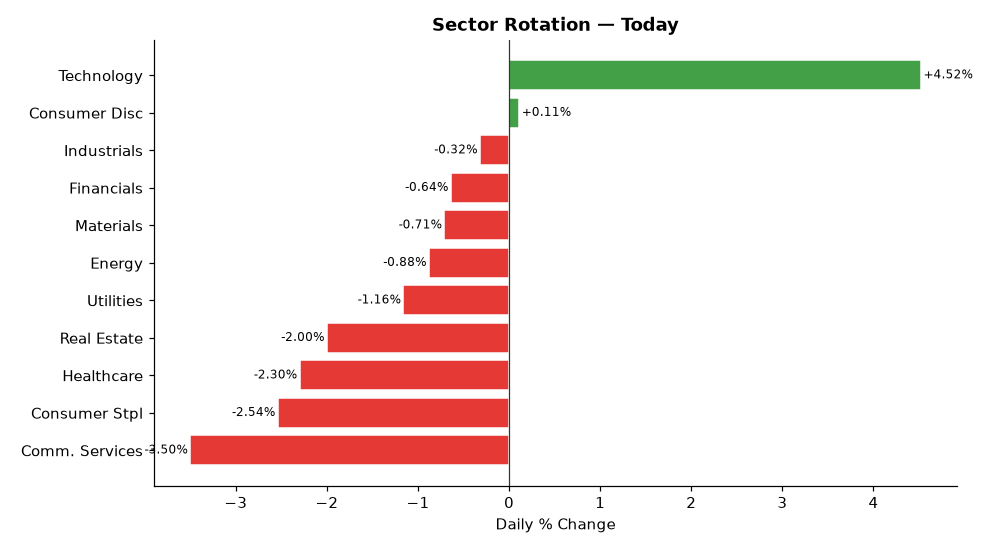
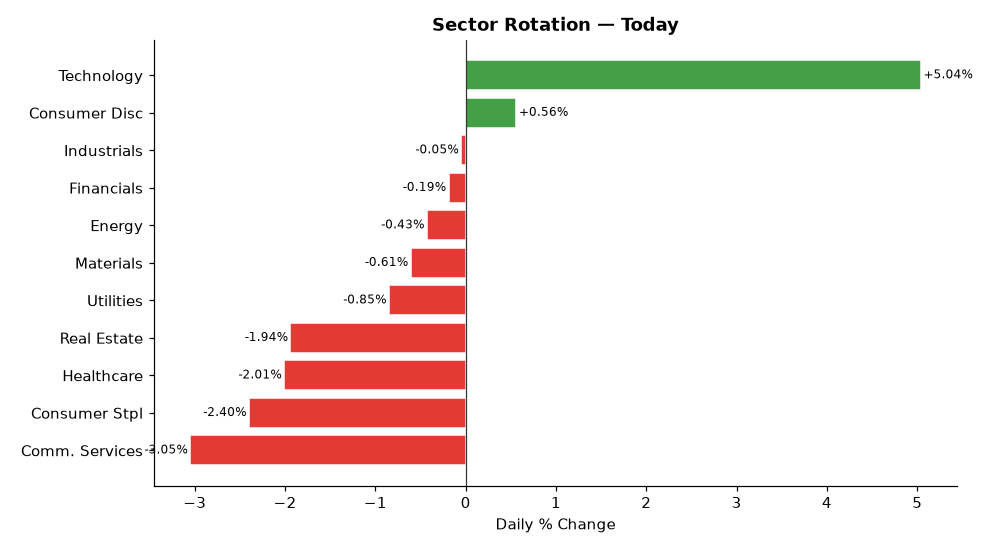
deploy: b7fadf5b06deb90e7ebb92f278722414bdd9750d

diff --git a/index.html b/index.html
@@ -4,7 +4,7 @@
   <meta charset="UTF-8">
   <meta name="viewport" content="width=device-width,initial-scale=1">
   <meta http-equiv="Cache-Control" content="no-cache,no-store,must-revalidate">
-  <title>Stock Breakout Screener — 2026-07-30 15:29</title>
+  <title>Stock Breakout Screener — 2026-07-30 16:06</title>
   <style>
     *{box-sizing:border-box;margin:0;padding:0}
     body{font-family:'Segoe UI',Arial,sans-serif;background:#f0f2f5;
@@ -34,7 +34,7 @@
 
 <div class="hdr">
   <h1>📈 Stock Breakout Screener</h1>
-  <p>Updated: 2026-07-30 15:29 UTC &nbsp;·&nbsp; Phase: Regular Market Hours &nbsp;·&nbsp;
+  <p>Updated: 2026-07-30 16:06 UTC &nbsp;·&nbsp; Phase: Regular Market Hours &nbsp;·&nbsp;
      129 stocks screened &nbsp;·&nbsp; Top 5 by conviction score</p>
 </div>
 
@@ -60,7 +60,7 @@
           <div style="display:flex;align-items:center;gap:10px;
                       flex-wrap:wrap;margin-bottom:10px">
             <span style="font-size:22px">🟢</span>
-            <span style="font-size:19px;font-weight:700">1. AAPL</span>
+            <span style="font-size:19px;font-weight:700">1. MSFT</span>
             <span style="font-size:12px;color:#666">Technology</span>
             <span style="margin-left:auto;background:#1a237e;color:#fff;
                          padding:3px 12px;border-radius:12px;
@@ -69,7 +69,7 @@
             </span>
           </div>
           <ul style="margin:0;padding-left:18px;font-size:13px;
-                     color:#333;line-height:1.8"><li style="margin:5px 0"><span style="background:#ffebee;color:#b71c1c;padding:2px 7px;border-radius:4px;font-size:11px;">❌</span> Volume: <b>0.4× average</b> — Above-average activity</li><li style="margin:5px 0"><span style="background:#ffebee;color:#b71c1c;padding:2px 7px;border-radius:4px;font-size:11px;">❌</span> Candle: close <b>$331.22</b> vs open <b>$333.13</b> (-0.6%) — regular market close</li><li style="margin:5px 0"><span style="background:#e8f5e9;color:#2e7d32;padding:2px 7px;border-radius:4px;font-size:11px;">✅</span> 200-Day MA: price <b>$331.22</b> vs MA <b>$283.82</b> — <b>✅ Above</b> long-term trend</li><li style="margin:5px 0"><span style="background:#e8f5e9;color:#2e7d32;padding:2px 7px;border-radius:4px;font-size:11px;">✅</span> Inst. ownership: <b>65.7%</b> · MFI: <b>65.8</b> · Market cap: <b>$4865.0B</b></li><li style="margin:5px 0"><span style="background:#e8f5e9;color:#2e7d32;padding:2px 7px;border-radius:4px;font-size:11px;">✅</span> Last similar breakout: <b>Jun 26, 2026</b> → <b>+11.8%</b> over 10 trading days</li></ul>
+                     color:#333;line-height:1.8"><li style="margin:5px 0"><span style="background:#fffde7;color:#f57f17;padding:2px 7px;border-radius:4px;font-size:11px;">⚠</span> Volume: <b>1.8× average</b> — Above-average activity</li><li style="margin:5px 0"><span style="background:#e8f5e9;color:#2e7d32;padding:2px 7px;border-radius:4px;font-size:11px;">✅</span> Candle: close <b>$452.21</b> vs open <b>$438.50</b> (+3.1%) — regular market close</li><li style="margin:5px 0"><span style="background:#e8f5e9;color:#2e7d32;padding:2px 7px;border-radius:4px;font-size:11px;">✅</span> 200-Day MA: price <b>$452.21</b> vs MA <b>$399.27</b> — <b>✅ Above</b> long-term trend</li><li style="margin:5px 0"><span style="background:#e8f5e9;color:#2e7d32;padding:2px 7px;border-radius:4px;font-size:11px;">✅</span> Inst. ownership: <b>75.7%</b> · MFI: <b>66.2</b> · Market cap: <b>$3358.6B</b></li><li style="margin:5px 0"><span style="background:#ffebee;color:#b71c1c;padding:2px 7px;border-radius:4px;font-size:11px;">❌</span> Last similar breakout: <b>May 29, 2026</b> → <b>-13.2%</b> over 10 trading days</li></ul>
         </div>
         <div style="background:#fff;border:1px solid #ddd;border-radius:10px;
                     padding:16px 20px;margin-bottom:12px;
@@ -77,7 +77,7 @@
           <div style="display:flex;align-items:center;gap:10px;
                       flex-wrap:wrap;margin-bottom:10px">
             <span style="font-size:22px">🟢</span>
-            <span style="font-size:19px;font-weight:700">2. MSFT</span>
+            <span style="font-size:19px;font-weight:700">2. AAPL</span>
             <span style="font-size:12px;color:#666">Technology</span>
             <span style="margin-left:auto;background:#1a237e;color:#fff;
                          padding:3px 12px;border-radius:12px;
@@ -86,7 +86,7 @@
             </span>
           </div>
           <ul style="margin:0;padding-left:18px;font-size:13px;
-                     color:#333;line-height:1.8"><li style="margin:5px 0"><span style="background:#fffde7;color:#f57f17;padding:2px 7px;border-radius:4px;font-size:11px;">⚠</span> Volume: <b>1.6× average</b> — Above-average activity</li><li style="margin:5px 0"><span style="background:#fffde7;color:#f57f17;padding:2px 7px;border-radius:4px;font-size:11px;">⚠</span> Candle: close <b>$444.53</b> vs open <b>$438.50</b> (+1.4%) — regular market close</li><li style="margin:5px 0"><span style="background:#e8f5e9;color:#2e7d32;padding:2px 7px;border-radius:4px;font-size:11px;">✅</span> 200-Day MA: price <b>$444.53</b> vs MA <b>$399.21</b> — <b>✅ Above</b> long-term trend</li><li style="margin:5px 0"><span style="background:#e8f5e9;color:#2e7d32;padding:2px 7px;border-radius:4px;font-size:11px;">✅</span> Inst. ownership: <b>75.7%</b> · MFI: <b>65.7</b> · Market cap: <b>$3302.8B</b></li><li style="margin:5px 0"><span style="background:#ffebee;color:#b71c1c;padding:2px 7px;border-radius:4px;font-size:11px;">❌</span> Last similar breakout: <b>May 29, 2026</b> → <b>-13.2%</b> over 10 trading days</li></ul>
+                     color:#333;line-height:1.8"><li style="margin:5px 0"><span style="background:#ffebee;color:#b71c1c;padding:2px 7px;border-radius:4px;font-size:11px;">❌</span> Volume: <b>0.5× average</b> — Above-average activity</li><li style="margin:5px 0"><span style="background:#ffebee;color:#b71c1c;padding:2px 7px;border-radius:4px;font-size:11px;">❌</span> Candle: close <b>$331.15</b> vs open <b>$333.13</b> (-0.6%) — regular market close</li><li style="margin:5px 0"><span style="background:#e8f5e9;color:#2e7d32;padding:2px 7px;border-radius:4px;font-size:11px;">✅</span> 200-Day MA: price <b>$331.15</b> vs MA <b>$283.82</b> — <b>✅ Above</b> long-term trend</li><li style="margin:5px 0"><span style="background:#e8f5e9;color:#2e7d32;padding:2px 7px;border-radius:4px;font-size:11px;">✅</span> Inst. ownership: <b>65.7%</b> · MFI: <b>65.4</b> · Market cap: <b>$4865.6B</b></li><li style="margin:5px 0"><span style="background:#e8f5e9;color:#2e7d32;padding:2px 7px;border-radius:4px;font-size:11px;">✅</span> Last similar breakout: <b>Jun 26, 2026</b> → <b>+11.8%</b> over 10 trading days</li></ul>
         </div>
         <div style="background:#fff;border:1px solid #ddd;border-radius:10px;
                     padding:16px 20px;margin-bottom:12px;
@@ -103,7 +103,7 @@
             </span>
           </div>
           <ul style="margin:0;padding-left:18px;font-size:13px;
-                     color:#333;line-height:1.8"><li style="margin:5px 0"><span style="background:#ffebee;color:#b71c1c;padding:2px 7px;border-radius:4px;font-size:11px;">❌</span> Volume: <b>0.5× average</b> — Above-average activity</li><li style="margin:5px 0"><span style="background:#e8f5e9;color:#2e7d32;padding:2px 7px;border-radius:4px;font-size:11px;">✅</span> Candle: close <b>$483.19</b> vs open <b>$459.16</b> (+5.2%) — regular market close</li><li style="margin:5px 0"><span style="background:#e8f5e9;color:#2e7d32;padding:2px 7px;border-radius:4px;font-size:11px;">✅</span> 200-Day MA: price <b>$483.19</b> vs MA <b>$359.47</b> — <b>✅ Above</b> long-term trend</li><li style="margin:5px 0"><span style="background:#e8f5e9;color:#2e7d32;padding:2px 7px;border-radius:4px;font-size:11px;">✅</span> Inst. ownership: <b>72.0%</b> · MFI: <b>31.7</b> · Market cap: <b>N/A</b></li><li style="margin:5px 0"><span style="background:#e8f5e9;color:#2e7d32;padding:2px 7px;border-radius:4px;font-size:11px;">✅</span> Last similar breakout: <b>Apr 24, 2026</b> → <b>+30.9%</b> over 10 trading days</li></ul>
+                     color:#333;line-height:1.8"><li style="margin:5px 0"><span style="background:#ffebee;color:#b71c1c;padding:2px 7px;border-radius:4px;font-size:11px;">❌</span> Volume: <b>0.5× average</b> — Above-average activity</li><li style="margin:5px 0"><span style="background:#e8f5e9;color:#2e7d32;padding:2px 7px;border-radius:4px;font-size:11px;">✅</span> Candle: close <b>$487.06</b> vs open <b>$459.16</b> (+6.1%) — regular market close</li><li style="margin:5px 0"><span style="background:#e8f5e9;color:#2e7d32;padding:2px 7px;border-radius:4px;font-size:11px;">✅</span> 200-Day MA: price <b>$487.06</b> vs MA <b>$359.50</b> — <b>✅ Above</b> long-term trend</li><li style="margin:5px 0"><span style="background:#e8f5e9;color:#2e7d32;padding:2px 7px;border-radius:4px;font-size:11px;">✅</span> Inst. ownership: <b>72.0%</b> · MFI: <b>32.1</b> · Market cap: <b>N/A</b></li><li style="margin:5px 0"><span style="background:#e8f5e9;color:#2e7d32;padding:2px 7px;border-radius:4px;font-size:11px;">✅</span> Last similar breakout: <b>Apr 24, 2026</b> → <b>+30.9%</b> over 10 trading days</li></ul>
         </div>
         <div style="background:#fff;border:1px solid #ddd;border-radius:10px;
                     padding:16px 20px;margin-bottom:12px;
@@ -120,7 +120,7 @@
             </span>
           </div>
           <ul style="margin:0;padding-left:18px;font-size:13px;
-                     color:#333;line-height:1.8"><li style="margin:5px 0"><span style="background:#ffebee;color:#b71c1c;padding:2px 7px;border-radius:4px;font-size:11px;">❌</span> Volume: <b>0.6× average</b> — Above-average activity</li><li style="margin:5px 0"><span style="background:#e8f5e9;color:#2e7d32;padding:2px 7px;border-radius:4px;font-size:11px;">✅</span> Candle: close <b>$92.66</b> vs open <b>$86.41</b> (+7.2%) — regular market close</li><li style="margin:5px 0"><span style="background:#e8f5e9;color:#2e7d32;padding:2px 7px;border-radius:4px;font-size:11px;">✅</span> 200-Day MA: price <b>$92.66</b> vs MA <b>$82.92</b> — <b>✅ Above</b> long-term trend</li><li style="margin:5px 0"><span style="background:#e8f5e9;color:#2e7d32;padding:2px 7px;border-radius:4px;font-size:11px;">✅</span> Inst. ownership: <b>63.8%</b> · MFI: <b>22.5</b> · Market cap: <b>$467.5B</b></li><li style="margin:5px 0"><span style="background:#e8f5e9;color:#2e7d32;padding:2px 7px;border-radius:4px;font-size:11px;">✅</span> Last similar breakout: <b>Apr 29, 2026</b> → <b>+27.0%</b> over 10 trading days</li></ul>
+                     color:#333;line-height:1.8"><li style="margin:5px 0"><span style="background:#ffebee;color:#b71c1c;padding:2px 7px;border-radius:4px;font-size:11px;">❌</span> Volume: <b>0.7× average</b> — Above-average activity</li><li style="margin:5px 0"><span style="background:#e8f5e9;color:#2e7d32;padding:2px 7px;border-radius:4px;font-size:11px;">✅</span> Candle: close <b>$92.72</b> vs open <b>$86.41</b> (+7.3%) — regular market close</li><li style="margin:5px 0"><span style="background:#e8f5e9;color:#2e7d32;padding:2px 7px;border-radius:4px;font-size:11px;">✅</span> 200-Day MA: price <b>$92.72</b> vs MA <b>$82.92</b> — <b>✅ Above</b> long-term trend</li><li style="margin:5px 0"><span style="background:#e8f5e9;color:#2e7d32;padding:2px 7px;border-radius:4px;font-size:11px;">✅</span> Inst. ownership: <b>63.8%</b> · MFI: <b>22.9</b> · Market cap: <b>$467.5B</b></li><li style="margin:5px 0"><span style="background:#e8f5e9;color:#2e7d32;padding:2px 7px;border-radius:4px;font-size:11px;">✅</span> Last similar breakout: <b>Apr 29, 2026</b> → <b>+27.0%</b> over 10 trading days</li></ul>
         </div>
         <div style="background:#fff;border:1px solid #ddd;border-radius:10px;
                     padding:16px 20px;margin-bottom:12px;
@@ -137,7 +137,7 @@
             </span>
           </div>
           <ul style="margin:0;padding-left:18px;font-size:13px;
-                     color:#333;line-height:1.8"><li style="margin:5px 0"><span style="background:#ffebee;color:#b71c1c;padding:2px 7px;border-radius:4px;font-size:11px;">❌</span> Volume: <b>0.5× average</b> — Above-average activity</li><li style="margin:5px 0"><span style="background:#ffebee;color:#b71c1c;padding:2px 7px;border-radius:4px;font-size:11px;">❌</span> Candle: close <b>$246.00</b> vs open <b>$251.55</b> (-2.2%) — regular market close</li><li style="margin:5px 0"><span style="background:#e8f5e9;color:#2e7d32;padding:2px 7px;border-radius:4px;font-size:11px;">✅</span> 200-Day MA: price <b>$246.00</b> vs MA <b>$243.62</b> — <b>✅ Above</b> long-term trend</li><li style="margin:5px 0"><span style="background:#e8f5e9;color:#2e7d32;padding:2px 7px;border-radius:4px;font-size:11px;">✅</span> Inst. ownership: <b>87.7%</b> · MFI: <b>65.7</b> · Market cap: <b>$97.8B</b></li></ul>
+                     color:#333;line-height:1.8"><li style="margin:5px 0"><span style="background:#ffebee;color:#b71c1c;padding:2px 7px;border-radius:4px;font-size:11px;">❌</span> Volume: <b>0.6× average</b> — Above-average activity</li><li style="margin:5px 0"><span style="background:#ffebee;color:#b71c1c;padding:2px 7px;border-radius:4px;font-size:11px;">❌</span> Candle: close <b>$245.93</b> vs open <b>$251.55</b> (-2.2%) — regular market close</li><li style="margin:5px 0"><span style="background:#e8f5e9;color:#2e7d32;padding:2px 7px;border-radius:4px;font-size:11px;">✅</span> 200-Day MA: price <b>$245.93</b> vs MA <b>$243.62</b> — <b>✅ Above</b> long-term trend</li><li style="margin:5px 0"><span style="background:#e8f5e9;color:#2e7d32;padding:2px 7px;border-radius:4px;font-size:11px;">✅</span> Inst. ownership: <b>87.7%</b> · MFI: <b>65.4</b> · Market cap: <b>$97.7B</b></li></ul>
         </div>
 
 
@@ -168,54 +168,54 @@
   
         <tr>
           <td style="font-weight:700;text-align:left;padding-left:10px">
-            🟢 AAPL</td>
-          <td style="background:#ffcdd2">0.4×</td>
-          <td style="background:#ffcdd2">-0.6%</td>
-          <td style="background:#c8e6c9">
-            ▲ Above</td>
-          <td style="background:#c8e6c9">
-            65.7%</td>
-          <td style="background:#c8e6c9">
-            65.8</td>
-          <td style="background:#c8e6c9">Technology</td>
-          <td style="background:#c8e6c9">
-            213.8%</td>
-          <td style="background:#c8e6c9">
-            +11.8%</td>
-          <td style="font-weight:800;font-size:15px">13/17</td>
-        </tr>
-        <tr>
-          <td style="font-weight:700;text-align:left;padding-left:10px">
             🟢 MSFT</td>
-          <td style="background:#fff9c4">1.6×</td>
-          <td style="background:#fff9c4">+1.4%</td>
+          <td style="background:#fff9c4">1.8×</td>
+          <td style="background:#c8e6c9">+3.1%</td>
           <td style="background:#c8e6c9">
             ▲ Above</td>
           <td style="background:#c8e6c9">
             75.7%</td>
           <td style="background:#c8e6c9">
-            65.7</td>
+            66.2</td>
           <td style="background:#c8e6c9">Technology</td>
-          <td style="background:#c8e6c9">
-            110.4%</td>
+          <td style="background:#fff9c4">
+            23.1%</td>
           <td style="background:#ffcdd2">
             -13.2%</td>
           <td style="font-weight:800;font-size:15px">13/17</td>
         </tr>
         <tr>
           <td style="font-weight:700;text-align:left;padding-left:10px">
+            🟢 AAPL</td>
+          <td style="background:#ffcdd2">0.5×</td>
+          <td style="background:#ffcdd2">-0.6%</td>
+          <td style="background:#c8e6c9">
+            ▲ Above</td>
+          <td style="background:#c8e6c9">
+            65.7%</td>
+          <td style="background:#c8e6c9">
+            65.4</td>
+          <td style="background:#c8e6c9">Technology</td>
+          <td style="background:#c8e6c9">
+            202.1%</td>
+          <td style="background:#c8e6c9">
+            +11.8%</td>
+          <td style="font-weight:800;font-size:15px">13/17</td>
+        </tr>
+        <tr>
+          <td style="font-weight:700;text-align:left;padding-left:10px">
             🟢 AMD</td>
           <td style="background:#ffcdd2">0.5×</td>
-          <td style="background:#c8e6c9">+5.2%</td>
+          <td style="background:#c8e6c9">+6.1%</td>
           <td style="background:#c8e6c9">
             ▲ Above</td>
           <td style="background:#c8e6c9">
             72.0%</td>
           <td style="background:#ffcdd2">
-            31.7</td>
+            32.1</td>
           <td style="background:#c8e6c9">Technology</td>
           <td style="background:#c8e6c9">
-            290.9%</td>
+            114.6%</td>
           <td style="background:#c8e6c9">
             +30.9%</td>
           <td style="font-weight:800;font-size:15px">13/17</td>
@@ -223,17 +223,17 @@
         <tr>
           <td style="font-weight:700;text-align:left;padding-left:10px">
             🟢 INTC</td>
-          <td style="background:#ffcdd2">0.6×</td>
-          <td style="background:#c8e6c9">+7.2%</td>
+          <td style="background:#ffcdd2">0.7×</td>
+          <td style="background:#c8e6c9">+7.3%</td>
           <td style="background:#c8e6c9">
             ▲ Above</td>
           <td style="background:#c8e6c9">
             63.8%</td>
           <td style="background:#ffcdd2">
-            22.5</td>
+            22.9</td>
           <td style="background:#c8e6c9">Technology</td>
           <td style="background:#c8e6c9">
-            161.0%</td>
+            131.9%</td>
           <td style="background:#c8e6c9">
             +27.0%</td>
           <td style="font-weight:800;font-size:15px">13/17</td>
@@ -241,17 +241,17 @@
         <tr>
           <td style="font-weight:700;text-align:left;padding-left:10px">
             🟡 ADBE</td>
-          <td style="background:#ffcdd2">0.5×</td>
+          <td style="background:#ffcdd2">0.6×</td>
           <td style="background:#ffcdd2">-2.2%</td>
           <td style="background:#c8e6c9">
             ▲ Above</td>
           <td style="background:#c8e6c9">
             87.7%</td>
           <td style="background:#c8e6c9">
-            65.7</td>
+            65.4</td>
           <td style="background:#c8e6c9">Technology</td>
           <td style="background:#c8e6c9">
-            140.5%</td>
+            174.8%</td>
           <td style="background:#ffcdd2">
             N/A</td>
           <td style="font-weight:800;font-size:15px">11/17</td>
@@ -278,57 +278,57 @@
         <tr>
           <td style="text-align:left;padding-left:10px;font-weight:600">
             #1 Technology</td>
-          <td style="background:#e8f5e9;color:#2e7d32;font-weight:700">+4.52%</td>
+          <td style="background:#e8f5e9;color:#2e7d32;font-weight:700">+5.04%</td>
         </tr>
         <tr>
           <td style="text-align:left;padding-left:10px;font-weight:600">
             #2 Consumer Disc</td>
-          <td style="background:#e8f5e9;color:#2e7d32;font-weight:700">+0.11%</td>
+          <td style="background:#e8f5e9;color:#2e7d32;font-weight:700">+0.56%</td>
         </tr>
         <tr>
           <td style="text-align:left;padding-left:10px;font-weight:600">
             #3 Industrials</td>
-          <td style="background:#ffebee;color:#c62828;font-weight:700">-0.32%</td>
+          <td style="background:#ffebee;color:#c62828;font-weight:700">-0.05%</td>
         </tr>
         <tr>
           <td style="text-align:left;padding-left:10px;font-weight:600">
             #4 Financials</td>
-          <td style="background:#ffebee;color:#c62828;font-weight:700">-0.64%</td>
+          <td style="background:#ffebee;color:#c62828;font-weight:700">-0.19%</td>
         </tr>
         <tr>
           <td style="text-align:left;padding-left:10px;font-weight:600">
-            #5 Materials</td>
-          <td style="background:#ffebee;color:#c62828;font-weight:700">-0.71%</td>
+            #5 Energy</td>
+          <td style="background:#ffebee;color:#c62828;font-weight:700">-0.43%</td>
         </tr>
         <tr>
           <td style="text-align:left;padding-left:10px;font-weight:600">
-            #6 Energy</td>
-          <td style="background:#ffebee;color:#c62828;font-weight:700">-0.88%</td>
+            #6 Materials</td>
+          <td style="background:#ffebee;color:#c62828;font-weight:700">-0.61%</td>
         </tr>
         <tr>
           <td style="text-align:left;padding-left:10px;font-weight:600">
             #7 Utilities</td>
-          <td style="background:#ffebee;color:#c62828;font-weight:700">-1.16%</td>
+          <td style="background:#ffebee;color:#c62828;font-weight:700">-0.85%</td>
         </tr>
         <tr>
           <td style="text-align:left;padding-left:10px;font-weight:600">
             #8 Real Estate</td>
-          <td style="background:#ffebee;color:#c62828;font-weight:700">-2.00%</td>
+          <td style="background:#ffebee;color:#c62828;font-weight:700">-1.94%</td>
         </tr>
         <tr>
           <td style="text-align:left;padding-left:10px;font-weight:600">
             #9 Healthcare</td>
-          <td style="background:#ffebee;color:#c62828;font-weight:700">-2.30%</td>
+          <td style="background:#ffebee;color:#c62828;font-weight:700">-2.01%</td>
         </tr>
         <tr>
           <td style="text-align:left;padding-left:10px;font-weight:600">
             #10 Consumer Stpl</td>
-          <td style="background:#ffebee;color:#c62828;font-weight:700">-2.54%</td>
+          <td style="background:#ffebee;color:#c62828;font-weight:700">-2.40%</td>
         </tr>
         <tr>
           <td style="text-align:left;padding-left:10px;font-weight:600">
             #11 Comm. Services</td>
-          <td style="background:#ffebee;color:#c62828;font-weight:700">-3.50%</td>
+          <td style="background:#ffebee;color:#c62828;font-weight:700">-3.05%</td>
         </tr>
     </table>
   </div>
@@ -367,7 +367,7 @@
         <li><b>Scoring weights:</b>
             Inst.Own(3) · Sector(3) · Volume(2) · Breakout(2) ·
             MA200(2) · MFI(2) · History(2) · IV(1) = 17pts max</li>
-        <li><b>Run time:</b> 2026-07-30 15:29 UTC — Market phase: Regular Market Hours</li>
+        <li><b>Run time:</b> 2026-07-30 16:06 UTC — Market phase: Regular Market Hours</li>
       </ul>
     </div>
 
